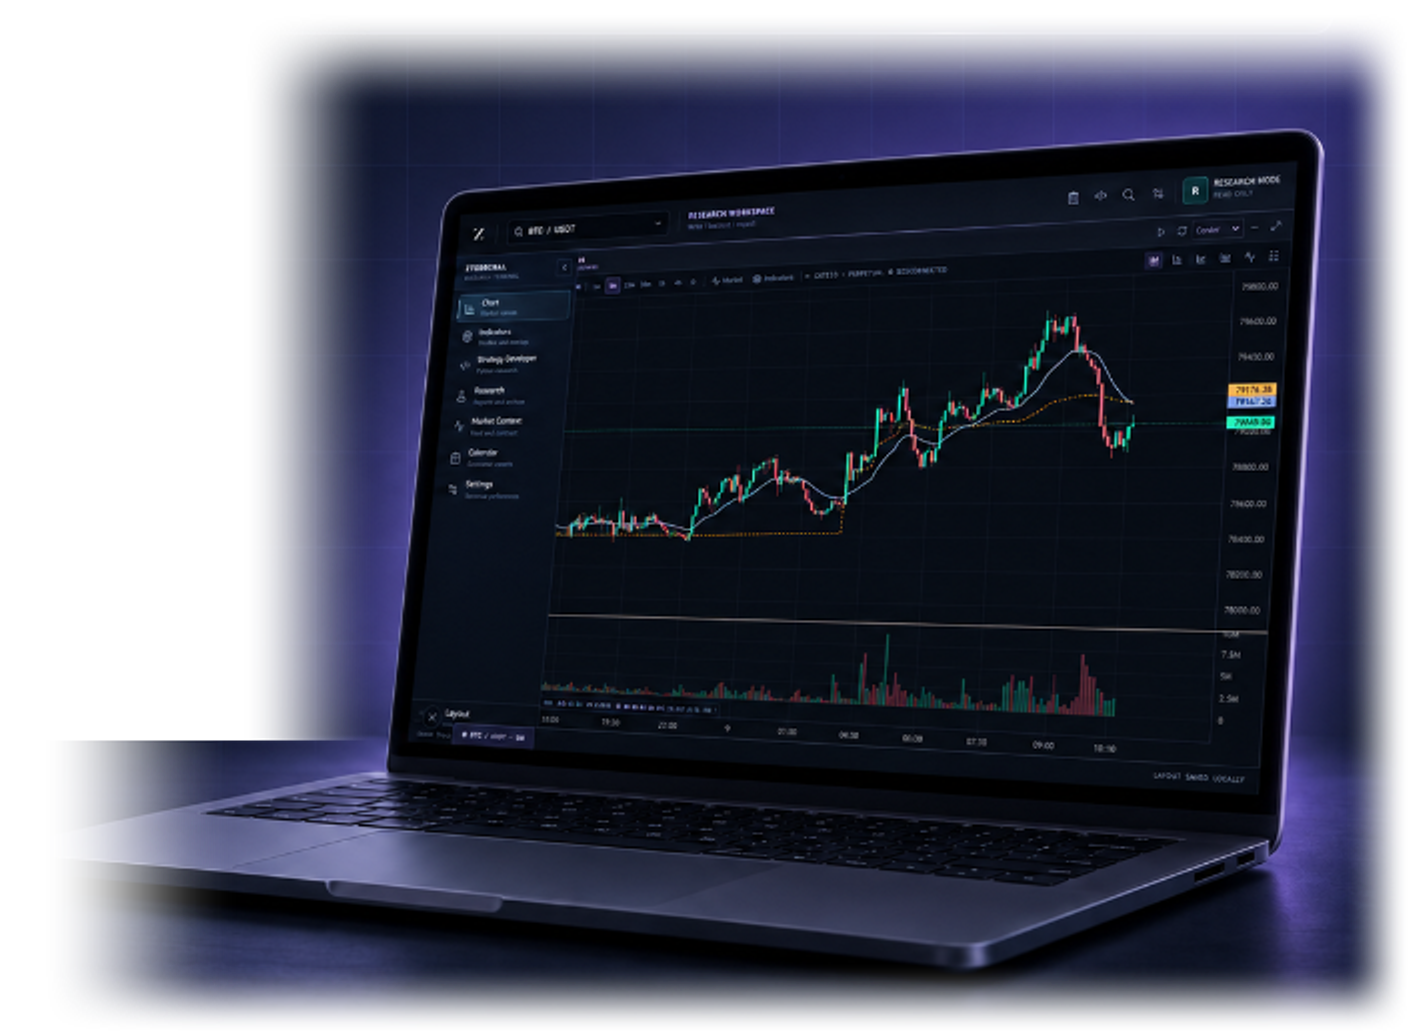
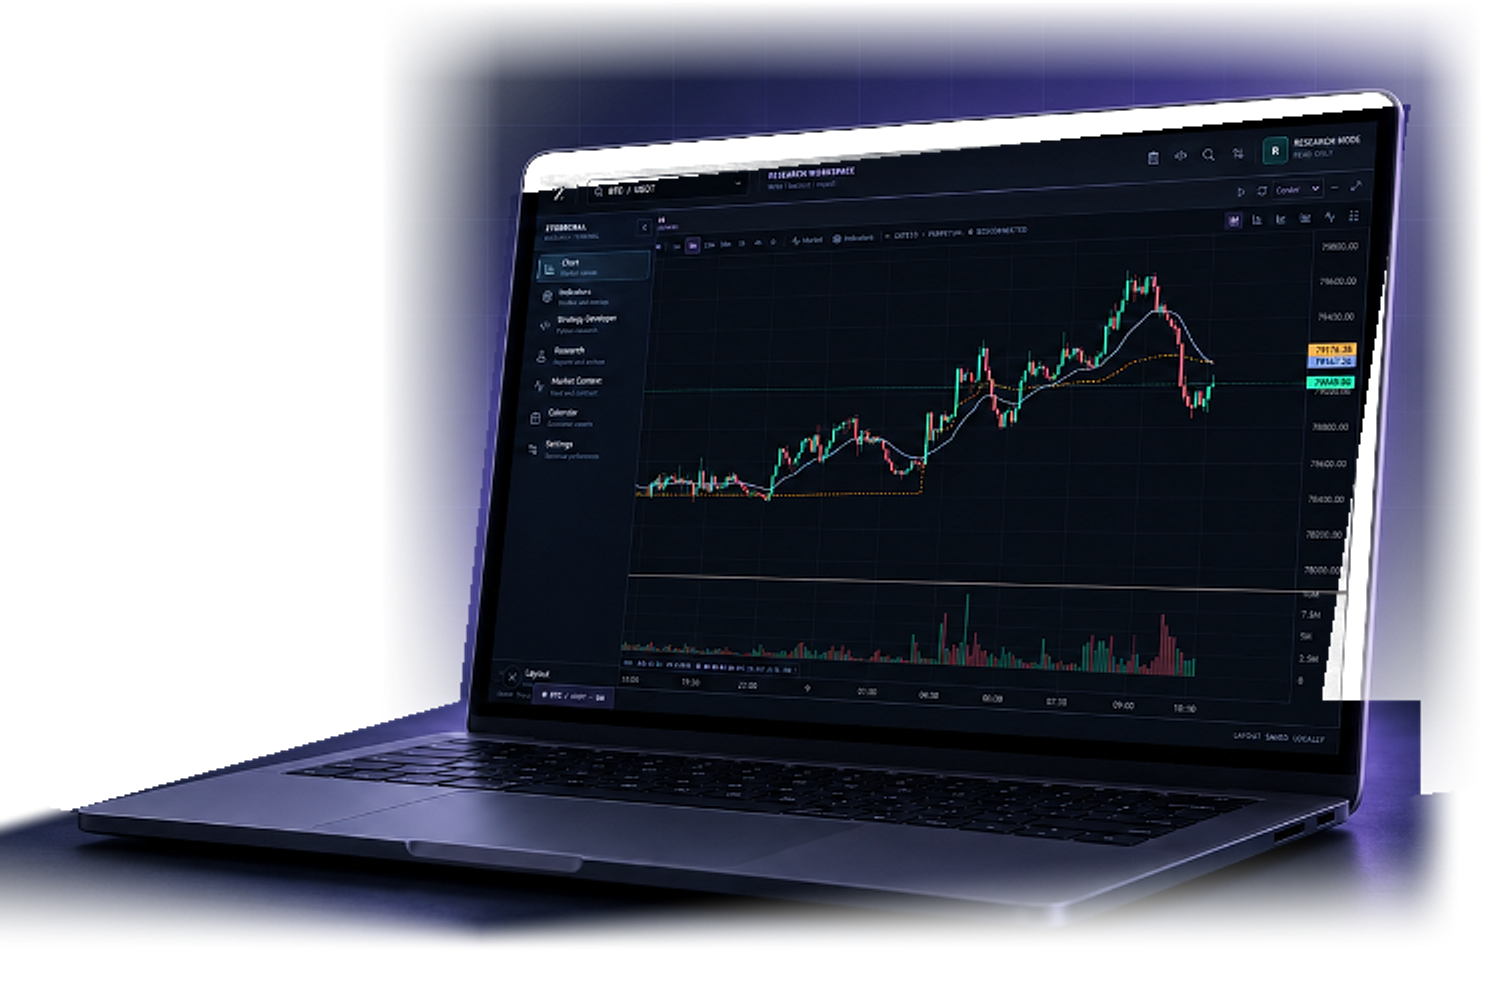
feat: balance landing hero layout and laptop scale to match reference

diff --git a/src/components/landing/landing.module.css b/src/components/landing/landing.module.css
@@ -29,8 +29,8 @@
   min-height: calc(100vh - 66px);
   display: flex;
   align-items: center;
-  padding-top: clamp(28px, 4.5vh, 52px);
-  padding-bottom: clamp(36px, 5.5vh, 68px);
+  padding-top: clamp(24px, 3.5vh, 44px);
+  padding-bottom: clamp(12px, 2vh, 28px);
   border-bottom: 1px solid rgba(133, 153, 195, 0.12);
   background-color: #040914;
   background-image:
@@ -39,8 +39,8 @@
     /* Right side atmospheric indigo/violet wash */
     radial-gradient(ellipse 72% 64% at 76% 40%, rgba(95, 52, 215, 0.18) 0%, rgba(55, 28, 140, 0.09) 45%, transparent 75%),
     /* Orthogonal technical grid (72px) */
-    linear-gradient(to right, rgba(90, 110, 175, 0.075) 1px, transparent 1px),
-    linear-gradient(to bottom, rgba(90, 110, 175, 0.075) 1px, transparent 1px);
+    linear-gradient(to right, rgba(90, 110, 175, 0.065) 1px, transparent 1px),
+    linear-gradient(to bottom, rgba(90, 110, 175, 0.065) 1px, transparent 1px);
   background-size: 100% 100%, 100% 100%, 72px 72px, 72px 72px;
   overflow: hidden;
 }
@@ -49,23 +49,29 @@
   position: relative;
   z-index: 2;
   width: 100%;
+  max-width: 1680px;
+  margin-inline: auto;
+  padding-left: clamp(24px, 4.8vw, 84px);
+  padding-right: clamp(16px, 3.2vw, 56px);
 }
 
 .heroGrid {
   display: grid;
-  grid-template-columns: 46% 54%;
-  gap: clamp(16px, 2.5vw, 36px);
-  align-items: center;
+  grid-template-columns: minmax(440px, 38%) 1fr;
+  gap: clamp(16px, 2.5vw, 40px);
+  align-items: flex-end;
 }
 
 .heroContent {
-  max-width: 620px;
+  max-width: 540px;
+  padding-top: clamp(8px, 2vh, 24px);
+  margin-bottom: clamp(36px, 6vh, 72px);
 }
 
 .heroEyebrow {
-  margin: 0 0 22px;
+  margin: 0 0 24px;
   font-family: var(--public-font-mono), monospace;
-  font-size: 11px;
+  font-size: 11.5px;
   font-weight: 600;
   letter-spacing: 0.18em;
   color: #b0a4f6;
@@ -73,12 +79,12 @@
 }
 
 .heroTitle {
-  margin: 0 0 22px;
+  margin: 0 0 24px;
   font-family: var(--public-font-sans);
-  font-size: clamp(38px, 3.8vw, 58px);
+  font-size: clamp(42px, 4.1vw, 62px);
   font-weight: 620;
-  letter-spacing: -0.035em;
-  line-height: 1.08;
+  letter-spacing: -0.038em;
+  line-height: 1.05;
   color: #ffffff;
 }
 
@@ -86,23 +92,23 @@
   font-family: var(--public-font-serif);
   font-style: italic;
   font-weight: 400;
-  color: #a195e7;
+  color: #c093f5;
   letter-spacing: -0.02em;
 }
 
 .heroLead {
-  margin: 0 0 34px;
+  margin: 0 0 36px;
   font-family: var(--public-font-sans);
-  font-size: clamp(15px, 1.08vw, 17px);
-  line-height: 1.65;
+  font-size: clamp(15.5px, 1.15vw, 17.5px);
+  line-height: 1.62;
   color: #949ab8;
-  max-width: 480px;
+  max-width: 440px;
 }
 
 .heroActions {
   display: flex;
   align-items: center;
-  gap: 22px;
+  gap: 26px;
   flex-wrap: wrap;
 }
 
@@ -111,23 +117,23 @@
   align-items: center;
   justify-content: center;
   gap: 8px;
-  height: 44px;
-  padding: 0 22px;
+  height: 46px;
+  padding: 0 26px;
   border-radius: 8px;
   background: #513cc5;
   color: #ffffff;
   font-family: var(--public-font-sans);
-  font-size: 14px;
+  font-size: 14.5px;
   font-weight: 550;
   text-decoration: none;
-  box-shadow: 0 4px 18px rgba(81, 60, 197, 0.42), inset 0 1px 0 rgba(255, 255, 255, 0.22);
+  box-shadow: 0 4px 20px rgba(81, 60, 197, 0.46), inset 0 1px 0 rgba(255, 255, 255, 0.25);
   transition: background 180ms ease, transform 180ms ease, box-shadow 180ms ease;
 }
 
 .heroPrimaryCta:hover {
   background: #5d46e0;
   transform: translateY(-1px);
-  box-shadow: 0 6px 24px rgba(81, 60, 197, 0.58), inset 0 1px 0 rgba(255, 255, 255, 0.3);
+  box-shadow: 0 6px 26px rgba(81, 60, 197, 0.62), inset 0 1px 0 rgba(255, 255, 255, 0.32);
 }
 
 .heroPrimaryCta:active {
@@ -148,9 +154,9 @@
   align-items: center;
   gap: 6px;
   font-family: var(--public-font-sans);
-  font-size: 14px;
+  font-size: 14.5px;
   font-weight: 500;
-  color: #a3add0;
+  color: #9ba8c8;
   text-decoration: none;
   transition: color 180ms ease;
 }
@@ -163,57 +169,49 @@
   transform: translateX(4px);
 }
 
-.heroFootnote {
-  display: flex;
-  align-items: flex-start;
-  gap: 10px;
-  margin-top: 28px;
-  padding-top: 18px;
-  border-top: 1px solid var(--public-line-subtle);
-  font-family: var(--public-font-mono), monospace;
-  font-size: 11px;
-  line-height: 1.6;
-  color: var(--public-muted);
-  letter-spacing: 0.04em;
-}
-
-.heroFootnoteDot {
-  width: 5px;
-  height: 5px;
-  margin-top: 6px;
-  flex-shrink: 0;
-  border-radius: 50%;
-  background: #a195e7;
-  opacity: 0.85;
-}
-
 .heroStage {
   position: relative;
   width: 100%;
-  min-height: clamp(480px, 60vh, 720px);
+  min-height: clamp(480px, 58vh, 680px);
   display: flex;
   align-items: flex-end;
-  justify-content: center;
+  justify-content: flex-end;
 }
 
 .hideMobile {
   display: inline;
 }
 
-@media (max-width: 1024px) {
+@media (max-width: 1100px) {
+  .heroGrid {
+    grid-template-columns: minmax(360px, 45%) 1fr;
+    gap: 24px;
+  }
+}
+
+@media (max-width: 900px) {
   .hero {
     min-height: auto;
     padding-top: 40px;
     padding-bottom: 50px;
   }
 
+  .heroContainer {
+    padding-left: clamp(20px, 4vw, 36px);
+    padding-right: clamp(20px, 4vw, 36px);
+  }
+
   .heroGrid {
     grid-template-columns: 1fr;
-    gap: 32px;
+    gap: 36px;
   }
 
   .heroContent {
     max-width: 100%;
+  }
+
+  .heroStage {
+    min-height: auto;
   }
 
   .hideMobile {

diff --git a/src/components/landing/hero-laptop.module.css b/src/components/landing/hero-laptop.module.css
@@ -9,8 +9,8 @@
   height: 100%;
   min-height: 520px;
   display: flex;
-  align-items: flex-end;
-  justify-content: center;
+  align-items: center;
+  justify-content: flex-end;
   perspective: 1200px;
   pointer-events: none;
 }
@@ -18,20 +18,20 @@
 /* Atmospheric Breathing Violet Glow behind the workstation */
 .atmosphericGlow {
   position: absolute;
-  top: 38%;
-  left: 56%;
+  top: 36%;
+  left: 64%;
   transform: translate(-50%, -50%);
-  width: clamp(620px, 68vw, 1000px);
-  height: clamp(440px, 50vw, 720px);
+  width: clamp(560px, 58vw, 920px);
+  height: clamp(400px, 44vw, 660px);
   border-radius: 50%;
   background: radial-gradient(
     ellipse at center,
-    rgba(110, 60, 240, 0.3) 0%,
-    rgba(70, 30, 185, 0.17) 42%,
-    rgba(25, 20, 80, 0.05) 65%,
+    rgba(95, 45, 215, 0.24) 0%,
+    rgba(60, 25, 160, 0.12) 42%,
+    rgba(20, 15, 65, 0.04) 65%,
     transparent 80%
   );
-  filter: blur(56px);
+  filter: blur(52px);
   pointer-events: none;
   z-index: 1;
 }
@@ -40,17 +40,17 @@
 .groundReflection {
   position: absolute;
   bottom: 0%;
-  left: 52%;
+  left: 58%;
   transform: translateX(-50%);
-  width: 96%;
-  height: 120px;
+  width: 92%;
+  height: 100px;
   background: radial-gradient(
     ellipse at center,
-    rgba(70, 35, 185, 0.24) 0%,
-    rgba(24, 28, 70, 0.16) 45%,
+    rgba(55, 28, 150, 0.22) 0%,
+    rgba(20, 24, 60, 0.12) 45%,
     transparent 75%
   );
-  filter: blur(36px);
+  filter: blur(32px);
   pointer-events: none;
   z-index: 1;
 }
@@ -58,14 +58,15 @@
 /* Main Laptop Workstation Assembly */
 .laptopContainer {
   position: relative;
-  width: 124%;
-  max-width: 1140px;
+  width: 100%;
+  max-width: clamp(740px, 58vw, 1120px);
   transform-style: preserve-3d;
   will-change: transform;
   pointer-events: auto;
   z-index: 2;
-  margin-right: -18%;
-  margin-bottom: -15px;
+  margin-left: auto;
+  margin-right: 0;
+  margin-bottom: -16px;
 }
 
 .floatingWrapper {
@@ -87,8 +88,8 @@
   width: 100%;
   height: auto;
   object-fit: contain;
-  filter: drop-shadow(0 32px 72px rgba(0, 0, 0, 0.88))
-         drop-shadow(0 10px 30px rgba(70, 30, 180, 0.26));
+  filter: drop-shadow(0 28px 64px rgba(0, 0, 0, 0.84))
+         drop-shadow(0 8px 24px rgba(70, 30, 180, 0.22));
   transform: translateZ(0);
 }
 
@@ -117,19 +118,22 @@
 /* Responsive Scaling */
 @media (max-width: 1280px) {
   .laptopContainer {
-    width: 115%;
-    max-width: 920px;
-    margin-right: -8%;
-    margin-bottom: 0;
+    max-width: 840px;
+    margin-left: auto;
   }
 }
 
 @media (max-width: 1024px) {
+  .laptopStage {
+    min-height: auto;
+    margin-top: 16px;
+    justify-content: center;
+  }
+
   .laptopContainer {
-    width: 100%;
     max-width: 720px;
-    margin-right: 0;
-    margin-bottom: 0;
+    margin-left: auto;
+    margin-right: auto;
   }
 }
 
@@ -139,11 +143,13 @@
     margin-top: 24px;
     perspective: none;
     align-items: center;
+    justify-content: center;
   }
 
   .laptopContainer {
     width: 100%;
     max-width: 100%;
+    margin-left: 0;
     margin-right: 0;
     margin-bottom: 0;
     transform: none !important;

diff --git a/src/components/landing/HeroLaptop.tsx b/src/components/landing/HeroLaptop.tsx
@@ -139,12 +139,11 @@ export function HeroLaptop({ className = "" }: HeroLaptopProps) {
             <Image
               src="/landing/hero-laptop-photorealistic.png"
               alt="Authentic ZTerminal quantitative research workstation with live order book, candlestick chart, and Python strategy tabs"
-              width={1408}
-              height={1032}
+              width={1488}
+              height={992}
               priority
-              quality={95}
               className={styles.laptopImage}
-              sizes="(max-width: 768px) 100vw, (max-width: 1200px) 55vw, 880px"
+              sizes="(max-width: 768px) 100vw, (max-width: 1200px) 55vw, 1020px"
             />
 
             {/* Specular Screen Sheen Sweep on Entry */}

diff --git a/src/components/landing/ZTerminalLanding.tsx b/src/components/landing/ZTerminalLanding.tsx
@@ -160,11 +160,6 @@ export default function ZTerminalLanding() {
                     <span className={styles.heroArrow} aria-hidden="true">→</span>
                   </a>
                 </FadeInView>
-
-                <FadeInView delay={0.54} yOffset={8} triggerOnMount className={styles.heroFootnote}>
-                  <span className={styles.heroFootnoteDot} aria-hidden="true" />
-                  <span>Windows x64 signed release in preparation · Web terminal available now</span>
-                </FadeInView>
               </div>
 
               {/* RESTORED PHOTOREALISTIC WORKSTATION MATCHING REFERENCE */}
